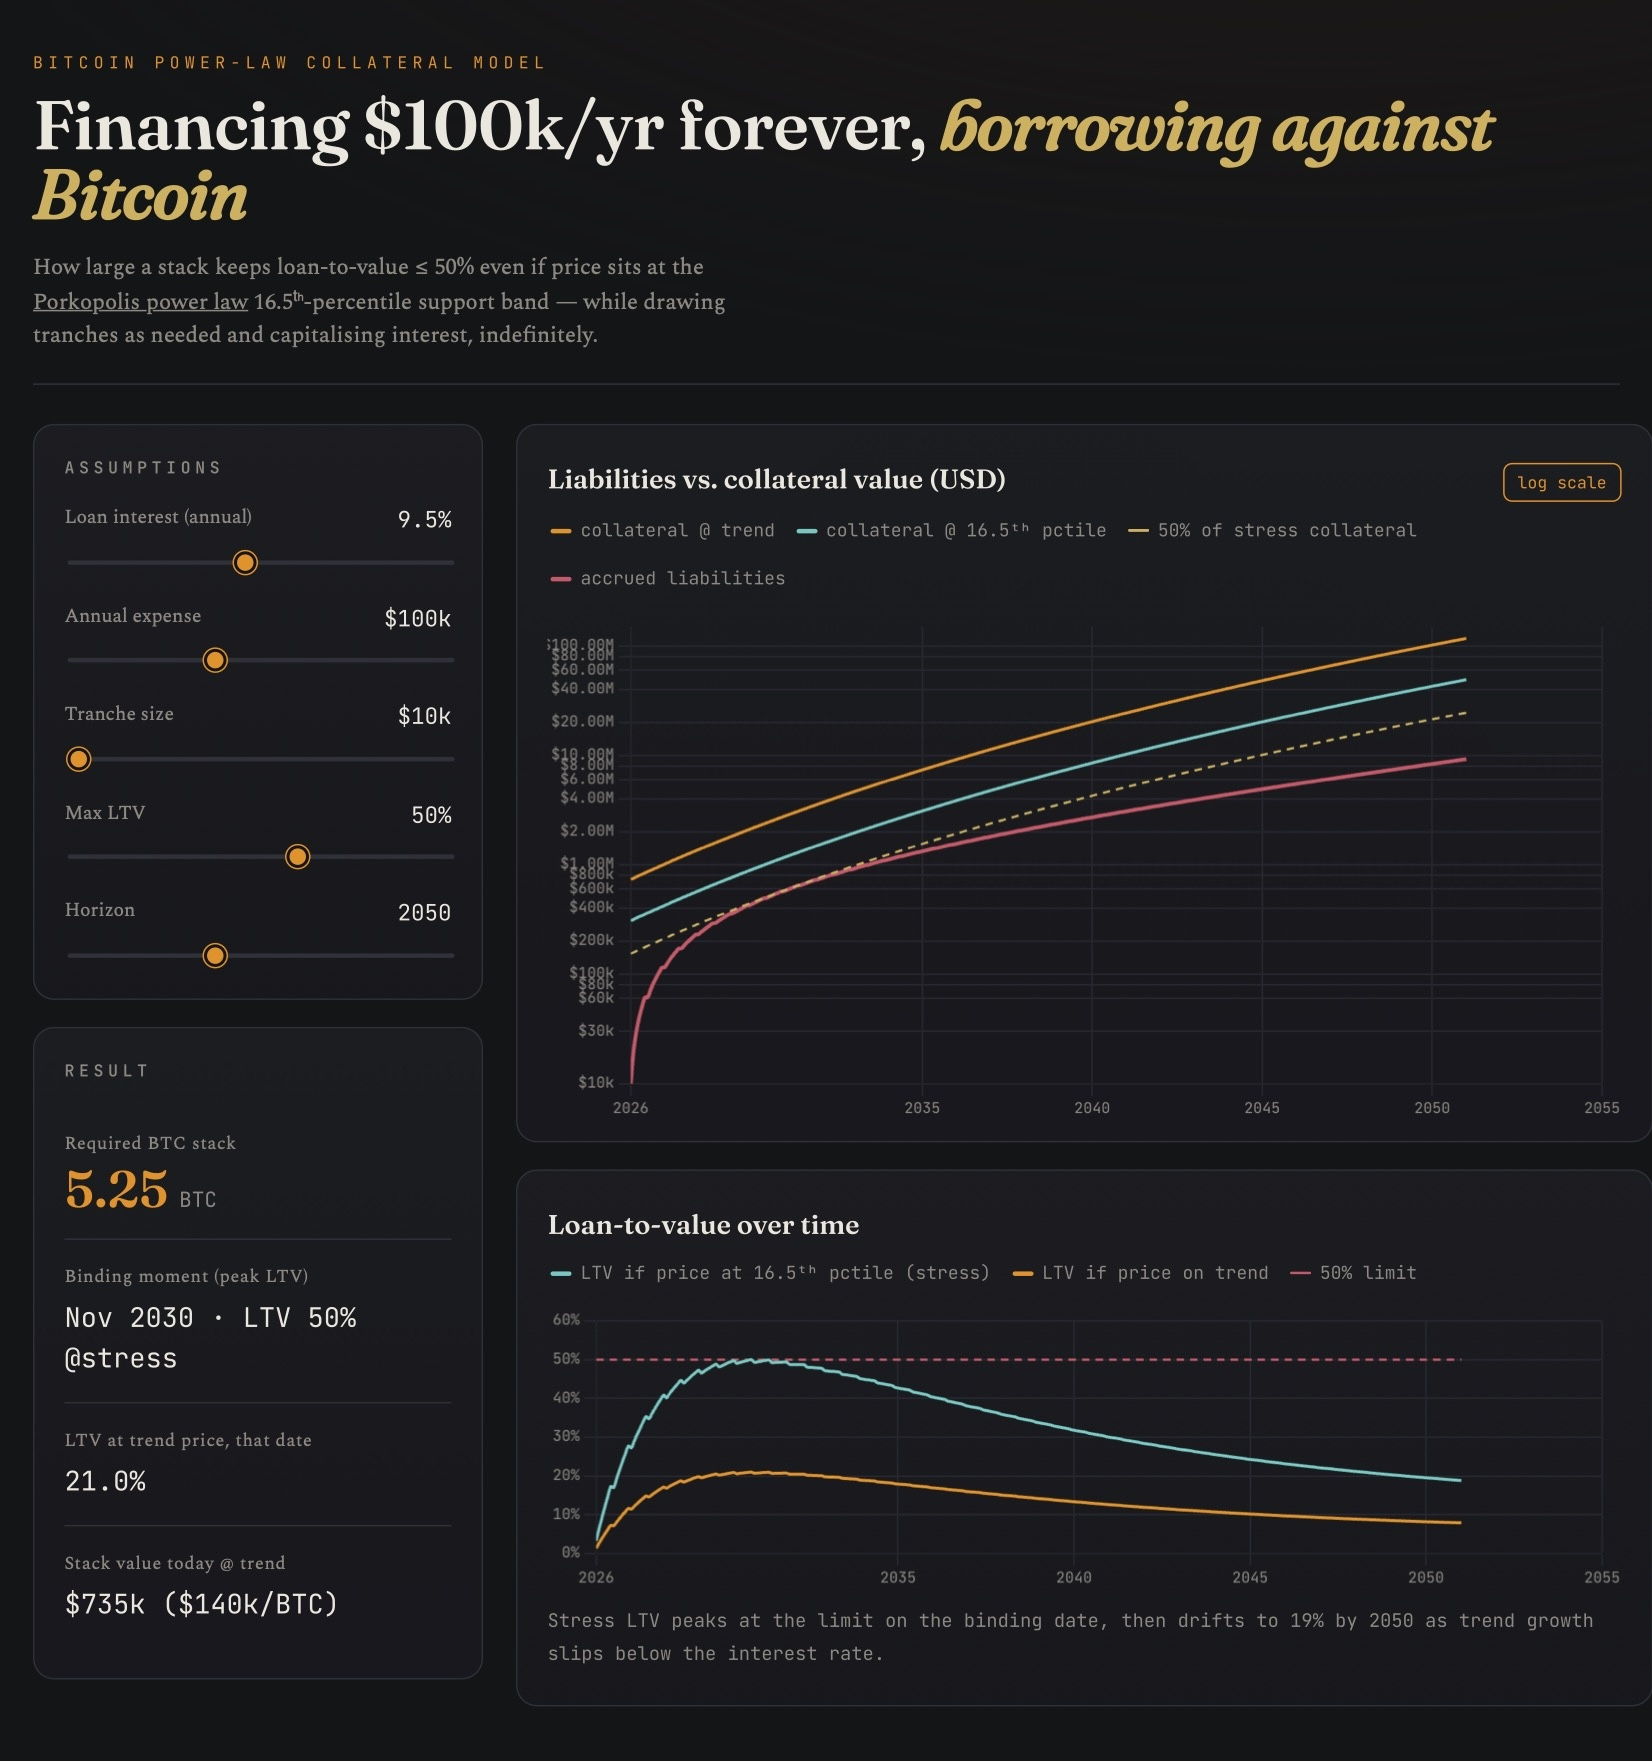
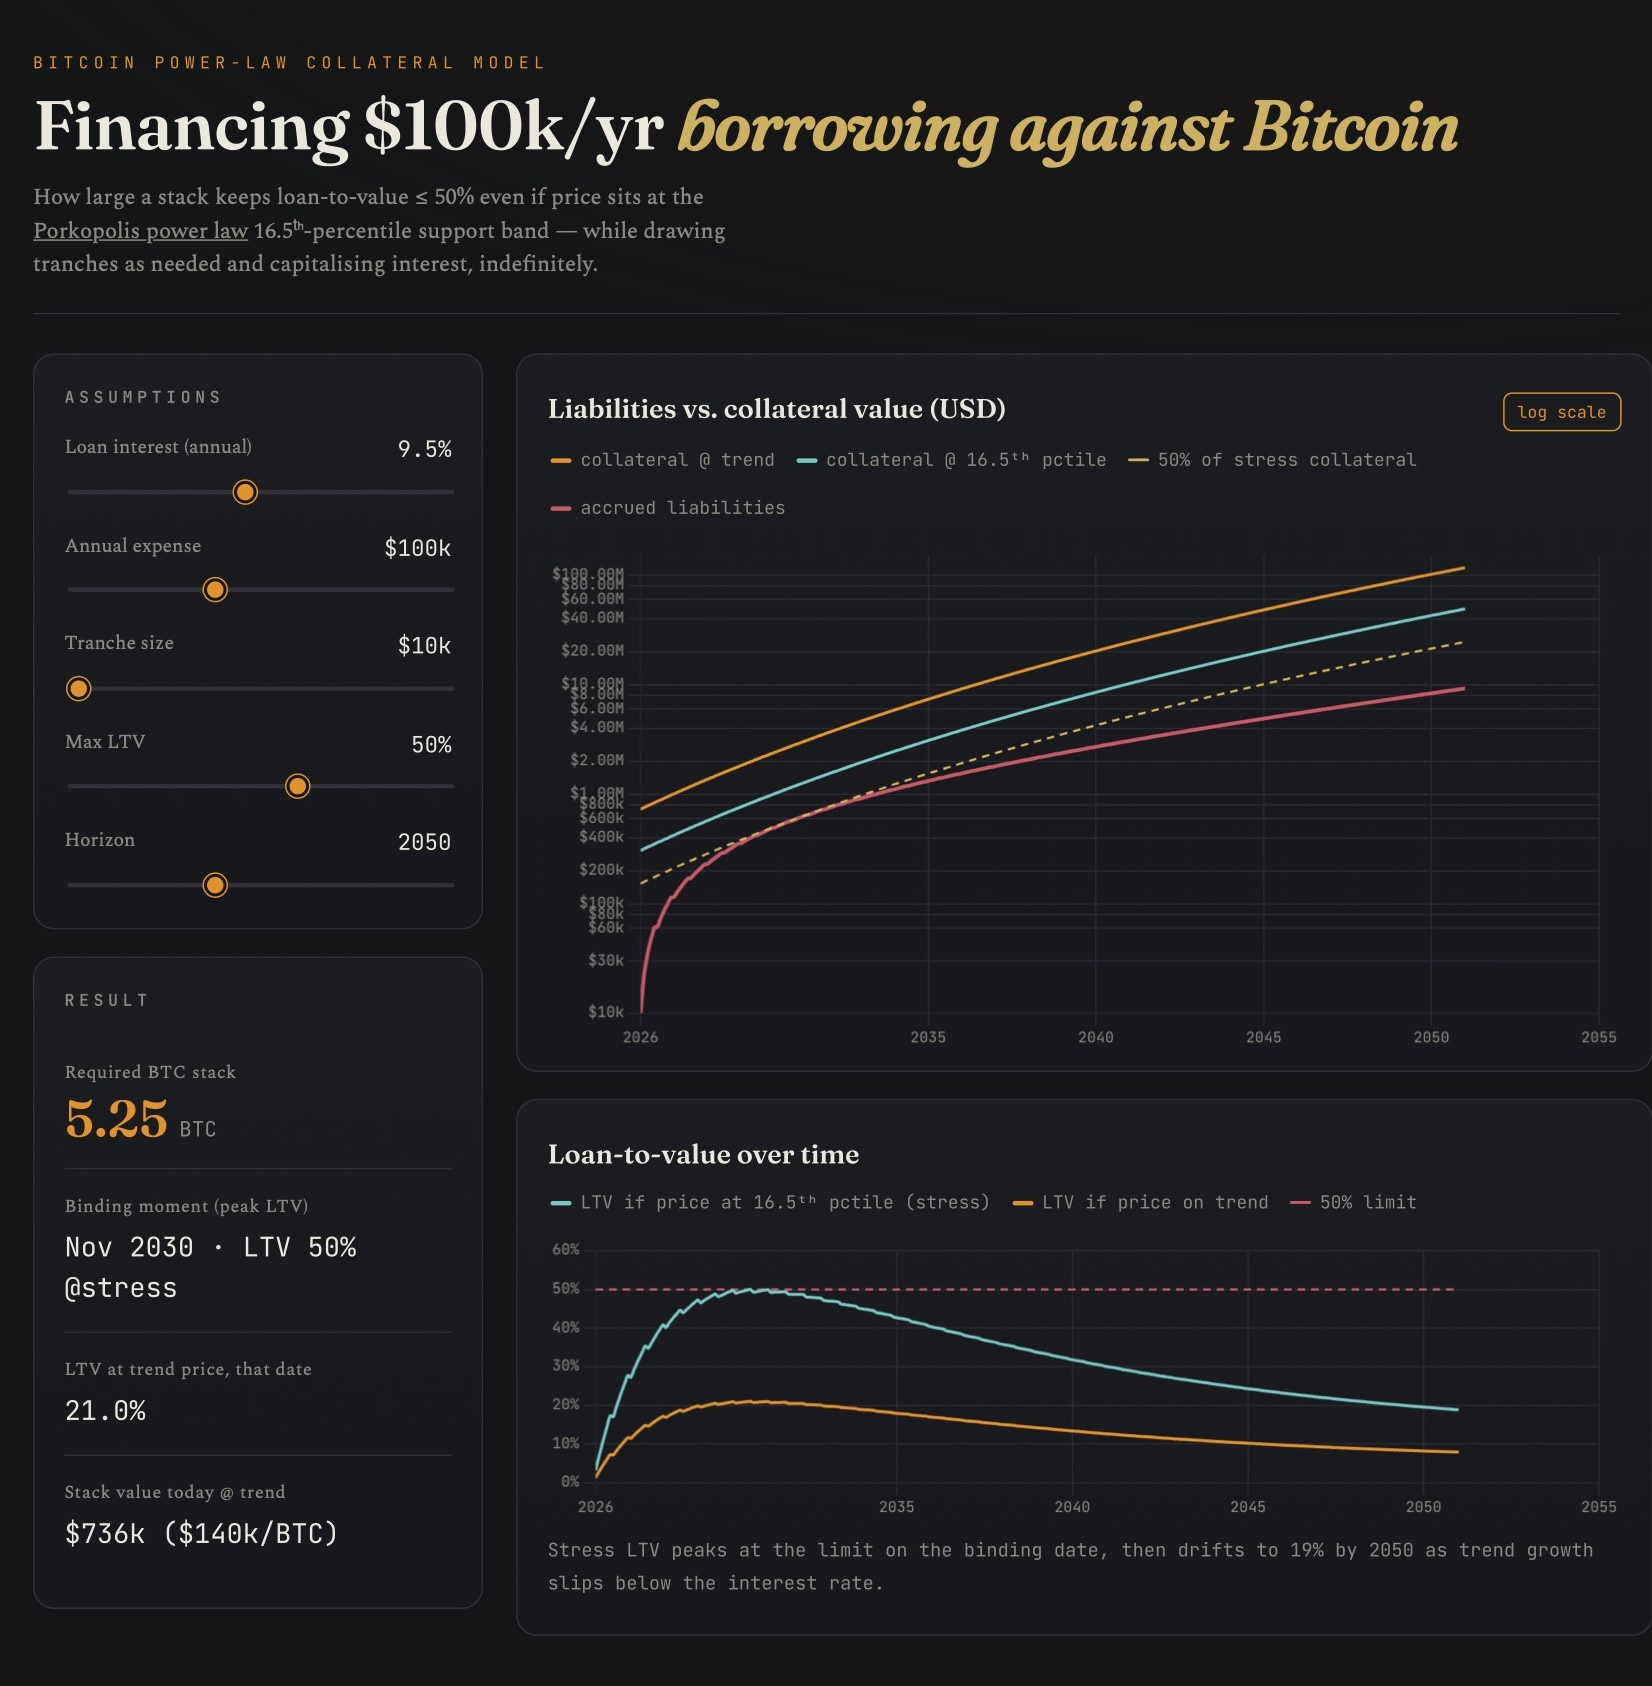
Update opengraph preview

diff --git a/index.html b/index.html
@@ -4,7 +4,7 @@
     <meta charset="utf-8">
     <meta name="viewport" content="width=device-width, initial-scale=1">
     <meta property="og:title" content="Bitcoin Power-Law Collateral Model">
-    <meta property="og:description" content="Financing $100k/yr forever, borrowing against Bitcoin">
+    <meta property="og:description" content="Financing $100k/yr borrowing against Bitcoin">
     <meta property="og:image" content="https://retireonbtc.org/opengraph.jpg">
     <meta property="og:url" content="https://retireonbtc.org/">
     <meta property="og:type" content="website">
